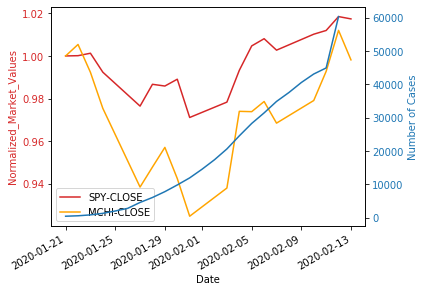
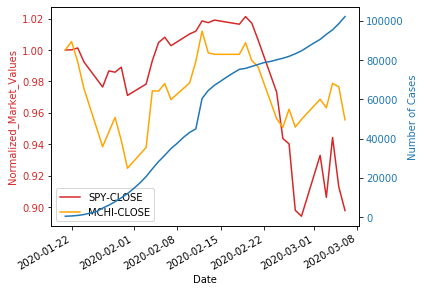
count updates
updated with new case counts and stock market prices

diff --git a/Market_Relationship.py b/Market_Relationship.py
@@ -15,7 +15,7 @@ import matplotlib.pyplot as plt
 
 def stock_market_data():
     iShares_China_ETF = yf.Ticker('MCHI')
-    iShares_China_ETF_df = iShares_China_ETF.history(period='1mo')
+    iShares_China_ETF_df = iShares_China_ETF.history(period='6mo')
     iShares_China_ETF_df = iShares_China_ETF_df.loc[:, ['Close']]
     iShares_China_ETF_df = iShares_China_ETF_df.rename(columns={'Close':
                                                                 'MCHI-CLOSE'})
@@ -23,7 +23,7 @@ def stock_market_data():
                                                     >= '2020-01-21']
 
     SPY = yf.Ticker('SPY')
-    SPY_df = SPY.history(period='1mo')
+    SPY_df = SPY.history(period='6mo')
     SPY_df.loc[:, 'StockName'] = 'SPY'
     SPY_df = SPY_df[['Close']]
     SPY_df = SPY_df.rename(columns={'Close': 'SPY-CLOSE'})
@@ -45,7 +45,15 @@ def virus_data():
             '2020-02-02': 17387, '2020-02-03': 20626, '2020-02-04': 24553,
             '2020-02-05': 28276, '2020-02-06': 31439, '2020-02-07': 34876,
             '2020-02-08': 37552, '2020-02-09': 40553, '2020-02-10': 43099,
-            '2020-02-11': 44919, '2020-02-12': 60326}
+            '2020-02-11': 44919, '2020-02-12': 60326, '2020-02-13': 64438,
+            '2020-02-14': 67100, '2020-02-15': 69197, '2020-02-16':71329,
+            '2020-02-17': 73332, '2020-02-18': 75184, '2020-02-19': 75700,
+            '2020-02-20': 76677, '2020-02-21': 77673, '2020-02-22': 78651,
+            '2020-02-23': 79205, '2020-02-24': 80087, '2020-02-25': 80828,
+            '2020-02-26': 81820, '2020-02-27': 83112, '2020-02-28': 84615,
+            '2020-02-29': 86604, '2020-03-01': 88581, '2020-03-02': 90439,
+            '2020-03-03': 93012, '2020-03-04': 95315, '2020-03-05': 98424,
+            '2020-03-06': 102049}
 
     date_index = virus_data.keys()
     date_index = [datetime.strptime(x, '%Y-%m-%d') for x in date_index]
